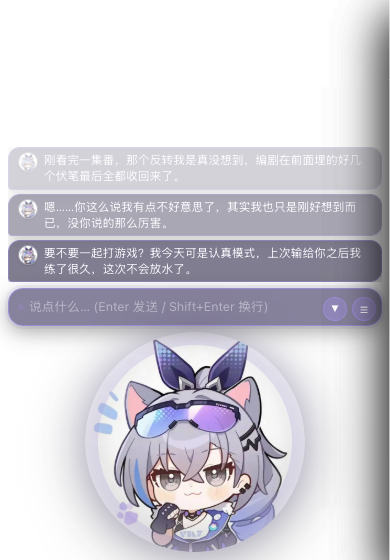
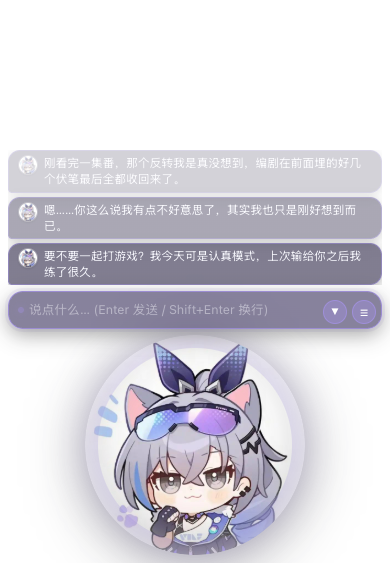
v1.0

diff --git a/tauriapp/src/css/shell.css b/tauriapp/src/css/shell.css
@@ -734,6 +734,27 @@ body.no-avatar-anim .avatar {
   text-align: center;
 }
 
+/* ---------------- 抽屉：关闭时必须真正「不可见」 ----------------
+   三个抽屉（日志 / 相册 / 角色）都是 position:fixed; right:0，
+   靠 transform: translateX(100%) 滑出窗口右侧。问题在于它们的
+   box-shadow（rgba(0,0,0,.5) 0 18px 48px 0）不会跟着一起移走 ——
+   阴影仍从窗口右缘向内投射约 50~60px，在透明窗口上就是一条很粗的
+   黑色渐变竖边，让整个挂件一眼看去是个长方形，而不是一颗圆形化身。
+   关闭态补上 visibility: hidden 让阴影一并停绘。
+   transition 里带上 visibility，滑入滑出依然平滑
+   （visibility 是离散量，隐藏会推迟到动画结束才真正生效）。 */
+.log-drawer,
+.album-drawer,
+.gallery-drawer {
+  visibility: hidden;
+  transition: transform 0.3s ease, visibility 0.3s ease;
+}
+.log-drawer.open,
+.album-drawer.open,
+.gallery-drawer.open {
+  visibility: visible;
+}
+
 /* ---------------- Toast：适配小窗口 ---------------- */
 /* 放在窗口顶部，避免遮住化身与气泡；面板模式下下移，避开面板标题栏。
    容器本身不接收点击，只有真正的 toast 才接收。 */

diff --git a/tauriapp/README.md b/tauriapp/README.md
@@ -236,6 +236,12 @@ macOS 还需要 `app.macOSPrivateApi: true`（已在配置里打开，Cargo.toml
 只调透明度它们仍然占着几百像素的布局高度，面板层会被挤扁，`fitPanelWindow` 又按被挤扁的结果
 去收窗口，越收越小，最后设置面板只剩一条边。
 
+**移出窗口的元素要收掉阴影。** 角色 / 相册 / 日志三个抽屉是 `position: fixed; right: 0`
++ `transform: translateX(100%)` 滑到窗口右侧之外的。但 `box-shadow`（`0 18px 48px rgba(0,0,0,.5)`）
+**不会跟着移走** —— 它仍从窗口右缘向内投射约 50~60px，在透明窗口上就是一条很粗的黑色渐变竖边，
+让人一眼看出「这是个长方形」而不是圆形化身。所以关闭态必须补 `visibility: hidden`
+（`shell.css`），让阴影一并停绘；`transition` 里带上 `visibility`，滑入滑出依然平滑。
+
 ### 3. 化身主色提取
 
 `computeDominantColor()` 把角色图片绘制到 32×32 的 canvas，做 4bit 量化统计直方图，
